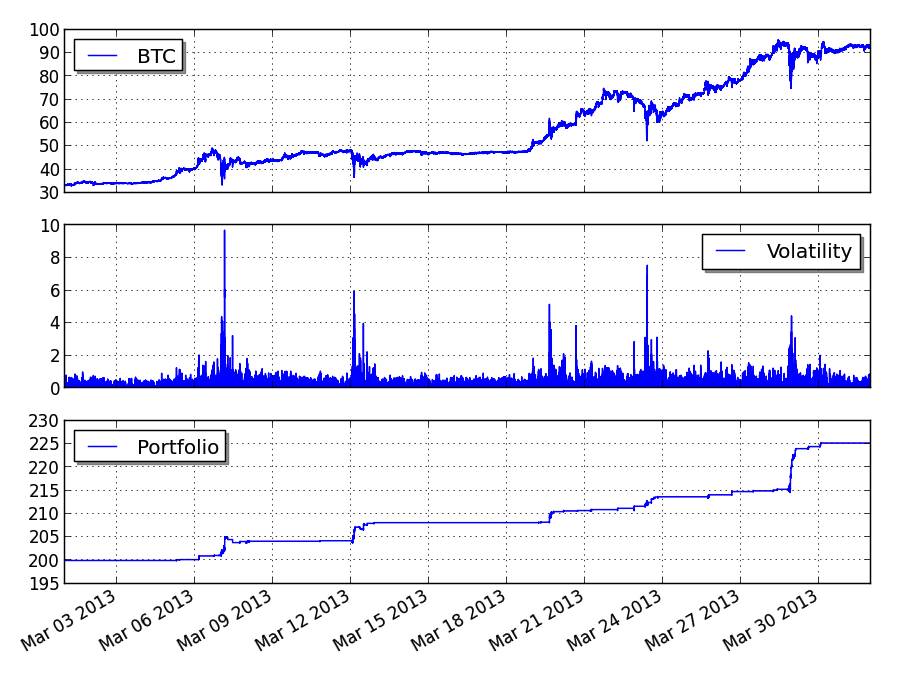
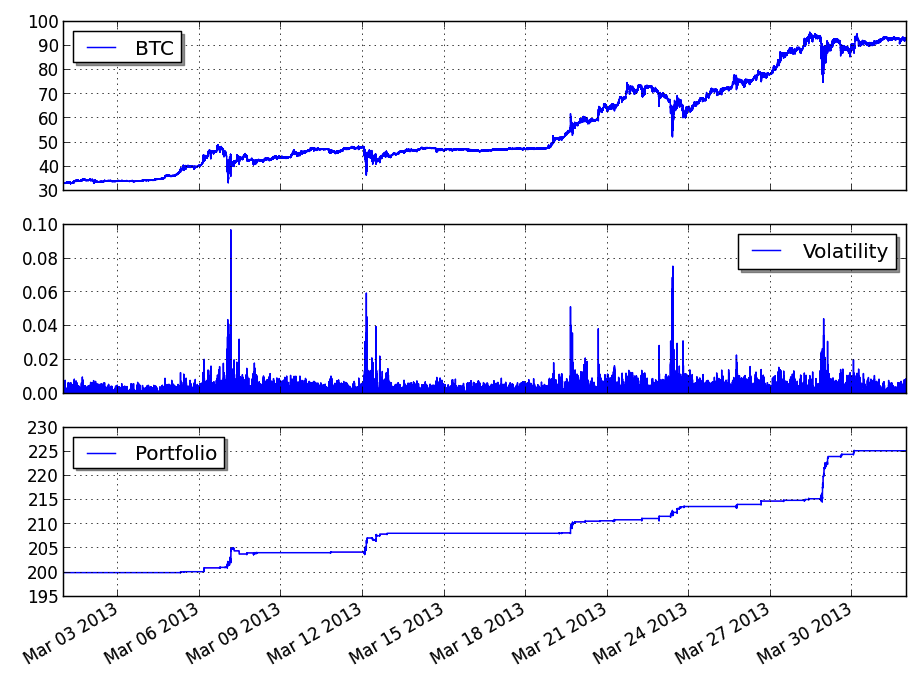
pyalgotrade.technical.roc.RateOfChange indicator was changed and now it doesn't multiply by 100 the results.

diff --git a/testcases/technical_roc_test.py b/testcases/technical_roc_test.py
@@ -36,7 +36,7 @@ class ROCTestCase(unittest.TestCase):
 		roc_ = self.__buildROC(inputValues, 12)
 		outputValues = [-3.85, -4.85, -4.52, -6.34, -7.86, -6.21, -4.31, -3.24]
 		for i in range(len(outputValues)):
-			outputValue = roc_[12 + i]
+			outputValue = roc_[12 + i] * 100
 			self.assertTrue(round(outputValue, 2) == outputValues[i])
 
 		self.assertEqual(len(roc_.getDateTimes()), len(inputValues))
@@ -47,9 +47,9 @@ class ROCTestCase(unittest.TestCase):
 		def simple_roc(value1, value2):
 			return self.__buildROC([value1, value2], 1)[1]
 
-		self.assertTrue(simple_roc(1, 2) == 100)
+		self.assertTrue(simple_roc(1, 2) == 1)
 		self.assertTrue(simple_roc(1, 2) == simple_roc(50, 100))
-		self.assertTrue(simple_roc(2, 1) == -50)
+		self.assertTrue(simple_roc(2, 1) == -0.5)
 		self.assertTrue(simple_roc(2, 1) == simple_roc(100, 50))
 
 	def testBounded(self):
@@ -58,7 +58,7 @@ class ROCTestCase(unittest.TestCase):
 		outputValues = [-4.31, -3.24]
 		roc_ = self.__buildROC(inputValues, 12, 2)
 		for i in xrange(2):
-			self.assertEqual(round(roc_[i], 2), outputValues[i])
+			self.assertEqual(round(roc_[i], 4), round(outputValues[i] / 100, 4))
 
 def getTestCases():
 	ret = []

diff --git a/samples/mtgox_scalper.py b/samples/mtgox_scalper.py
@@ -55,7 +55,7 @@ class Strategy(strategy.BaseStrategy):
     # Calculate the bid price based on the current price and the volatility.
     def __getBidPrice(self, currentPrice):
         vol = self.returnsVolatility[-1]
-        if vol != None and vol > 0.6:
+        if vol != None and vol > 0.006:
             return currentPrice * 0.98
         return None
 

diff --git a/pyalgotrade/technical/roc.py b/pyalgotrade/technical/roc.py
@@ -31,7 +31,7 @@ class ROCEventWindow(technical.EventWindow):
 			prev = self.getValues()[0]
 			actual = self.getValues()[-1]
 			if actual != None and prev != None and prev != 0:
-				ret = (actual - prev) / float(prev) * 100
+				ret = (actual - prev) / float(prev)
 		return ret
 
 class RateOfChange(technical.EventBasedFilter):
